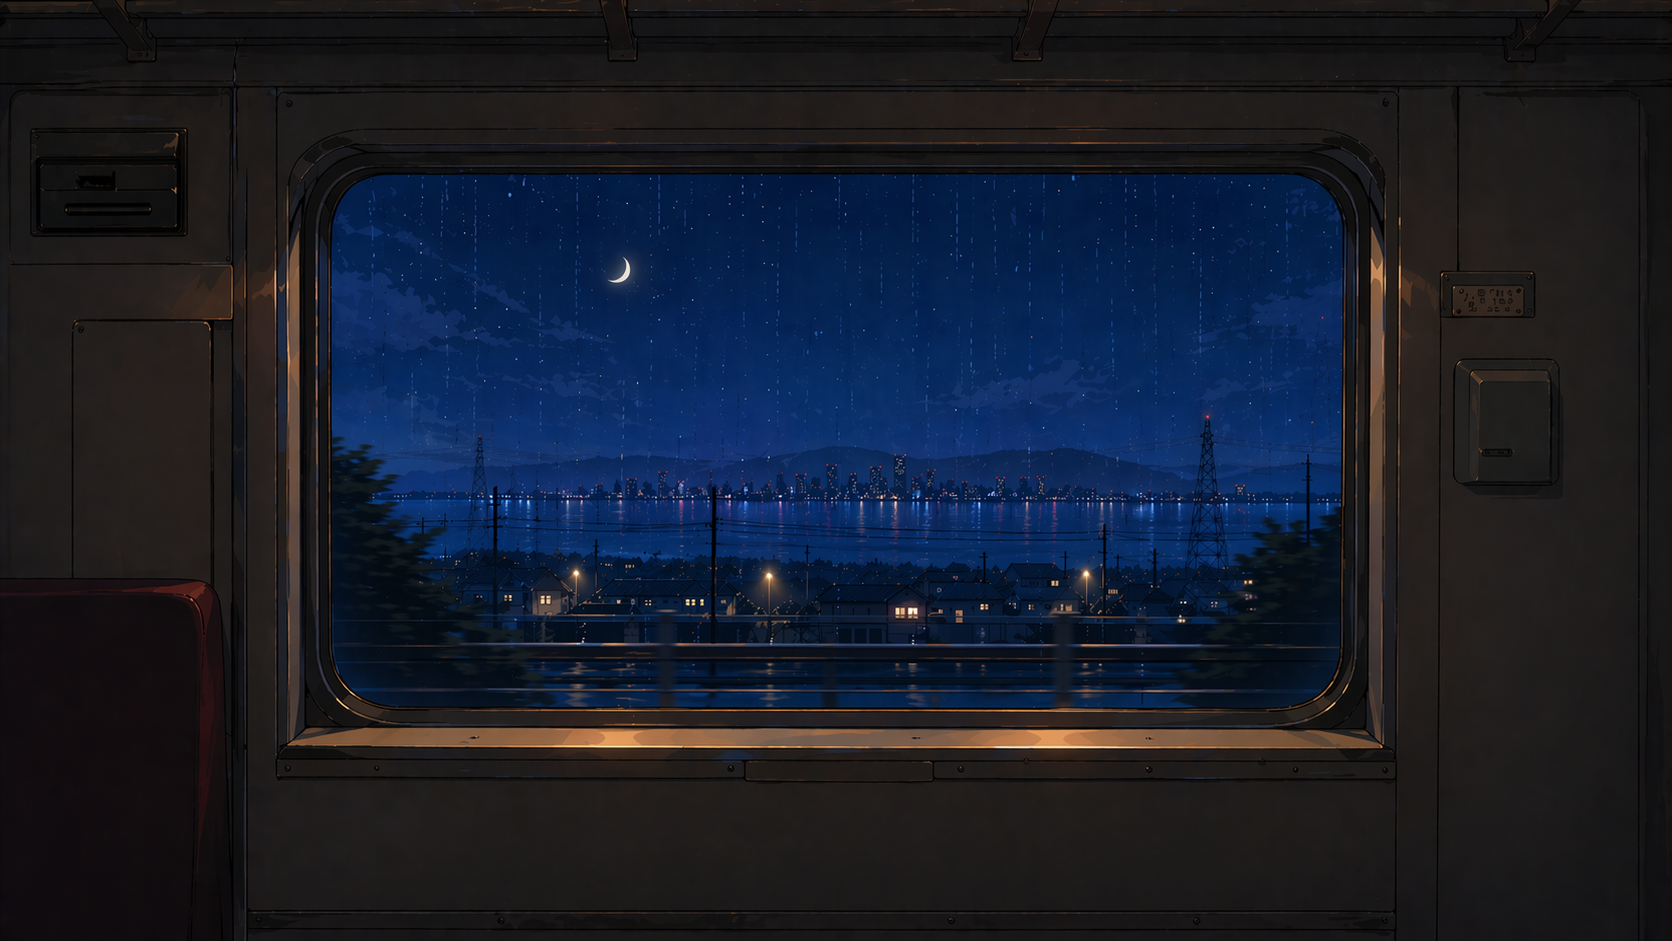
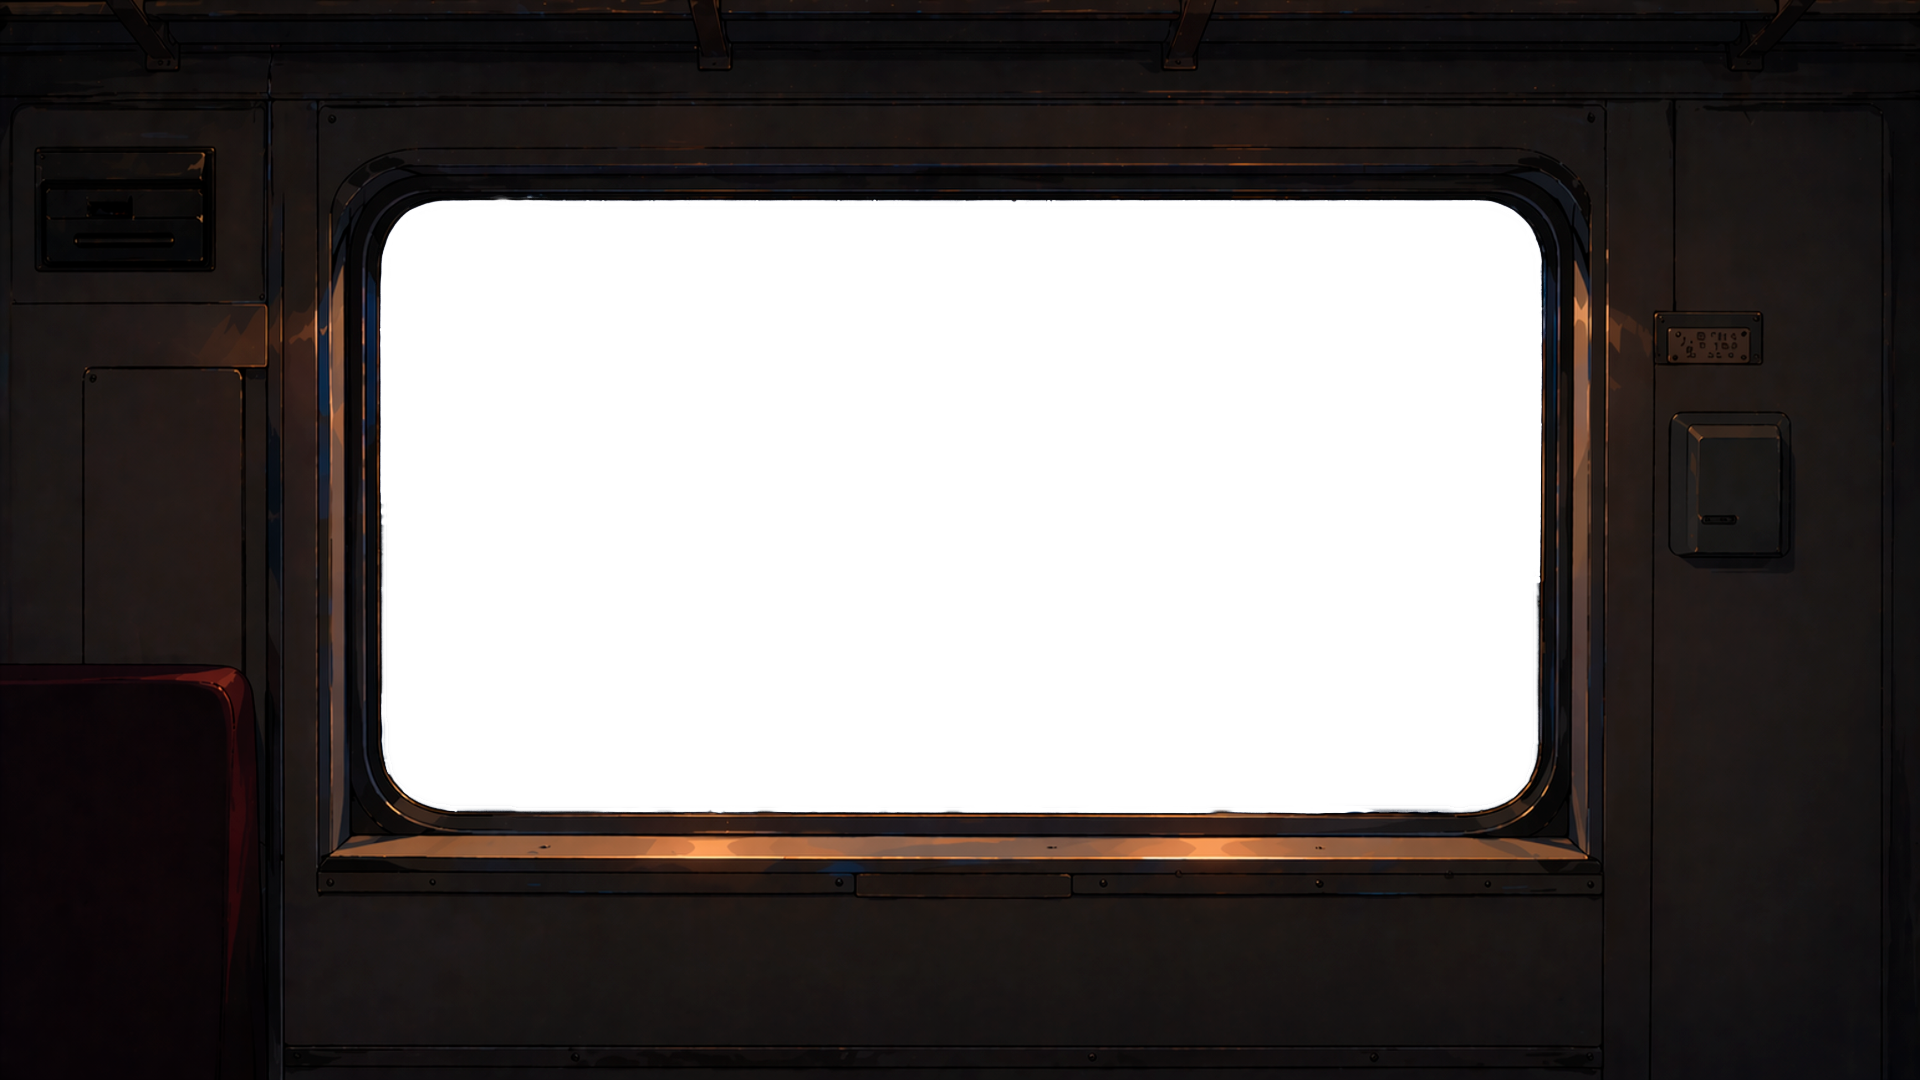
feat: add some first layers

diff --git a/src/init/ui/App.vue b/src/init/ui/App.vue
@@ -1,7 +1,95 @@
 <template>
-  <main class="h-svh bg-cover bg-center bg-no-repeat" :style="{ backgroundImage: `url(${carriage})` }"></main>
+  <main class="relative h-svh overflow-hidden perspective-midrange">
+    <div class="z-4 layer vision-shadow"></div>
+    <div
+      class="z-3 layer translate-z-2"
+      :style="{ backgroundImage: `url(${leftLeg})`, transform: `rotateY(${moveX * 5}deg) rotateX(${moveY * 4}deg)` }"
+    ></div>
+    <div
+      class="z-3 layer translate-z-2"
+      :style="{ backgroundImage: `url(${rightLeg})`, transform: `rotateY(${moveX * 8}deg) rotateX(${moveY * 6}deg)` }"
+    ></div>
+    <div
+      class="z-2 layer transition-transform ease-out"
+      :style="{
+        backgroundImage: `url(${carriage})`,
+        transform: `rotateY(${moveX}deg) rotateX(${moveY}deg) translateZ(${0.25 * moveZ}rem)`,
+      }"
+    ></div>
+    <div
+      class="z-1 scene translate-z-2 transition-all"
+      :class="sceneBlur ? 'blur-xs scale-105' : ''"
+      :style="{ transform: `rotateY(${moveY}deg) rotateX(${moveX}deg)` }"
+    >
+      <div class="layer" :style="{ backgroundImage: `url(${scene1})` }"></div>
+    </div>
+  </main>
 </template>
 
 <script setup lang="ts">
+  import { ref, watch } from "vue";
   import carriage from "@/shared/assets/main-backgrounds/carriage.png";
+  import leftLeg from "@/shared/assets/main-backgrounds/left-leg.png";
+  import rightLeg from "@/shared/assets/main-backgrounds/right-leg.png";
+  import scene1 from "@/shared/assets/scenes/scene-1.png";
+
+  const moveX = ref(0);
+  const moveY = ref(0);
+  const moveZ = ref(6);
+
+  const sceneBlur = ref(false);
+
+  window.addEventListener("mousemove", (event) => {
+    moveX.value = (event.clientX - window.innerWidth / 2) * -0.0001;
+    moveY.value = (event.clientY - window.innerHeight / 2) * -0.0005;
+  });
+
+  window.addEventListener("wheel", (event) => {
+    if (event.deltaY < 0) {
+      moveZ.value = Math.min(moveZ.value + 10, 60);
+    } else {
+      moveZ.value = Math.max(6, moveZ.value - 10);
+    }
+  });
+
+  watch(moveZ, () => {
+    sceneBlur.value = true;
+    let blurTimeout = null;
+
+    if (blurTimeout) {
+      clearTimeout(blurTimeout);
+    }
+
+    blurTimeout = setTimeout(() => {
+      sceneBlur.value = false;
+    }, 500);
+  });
 </script>
+
+<style scoped>
+  .layer {
+    position: absolute;
+    inset: 0;
+    background-repeat: no-repeat;
+    background-position: center;
+    background-size: cover;
+    will-change: transform;
+  }
+
+  .scene {
+    position: absolute;
+    inset: 0;
+    will-change: transform;
+  }
+
+  .vision-shadow {
+    pointer-events: none;
+    background: radial-gradient(
+      ellipse at center,
+      rgba(0, 0, 0, 0) 50%,
+      rgba(0, 0, 0, 0.15) 65%,
+      rgba(0, 0, 0, 0.25) 80%,
+      rgba(0, 0, 0, 0.65) 100%
+    );
+  }
+</style>
